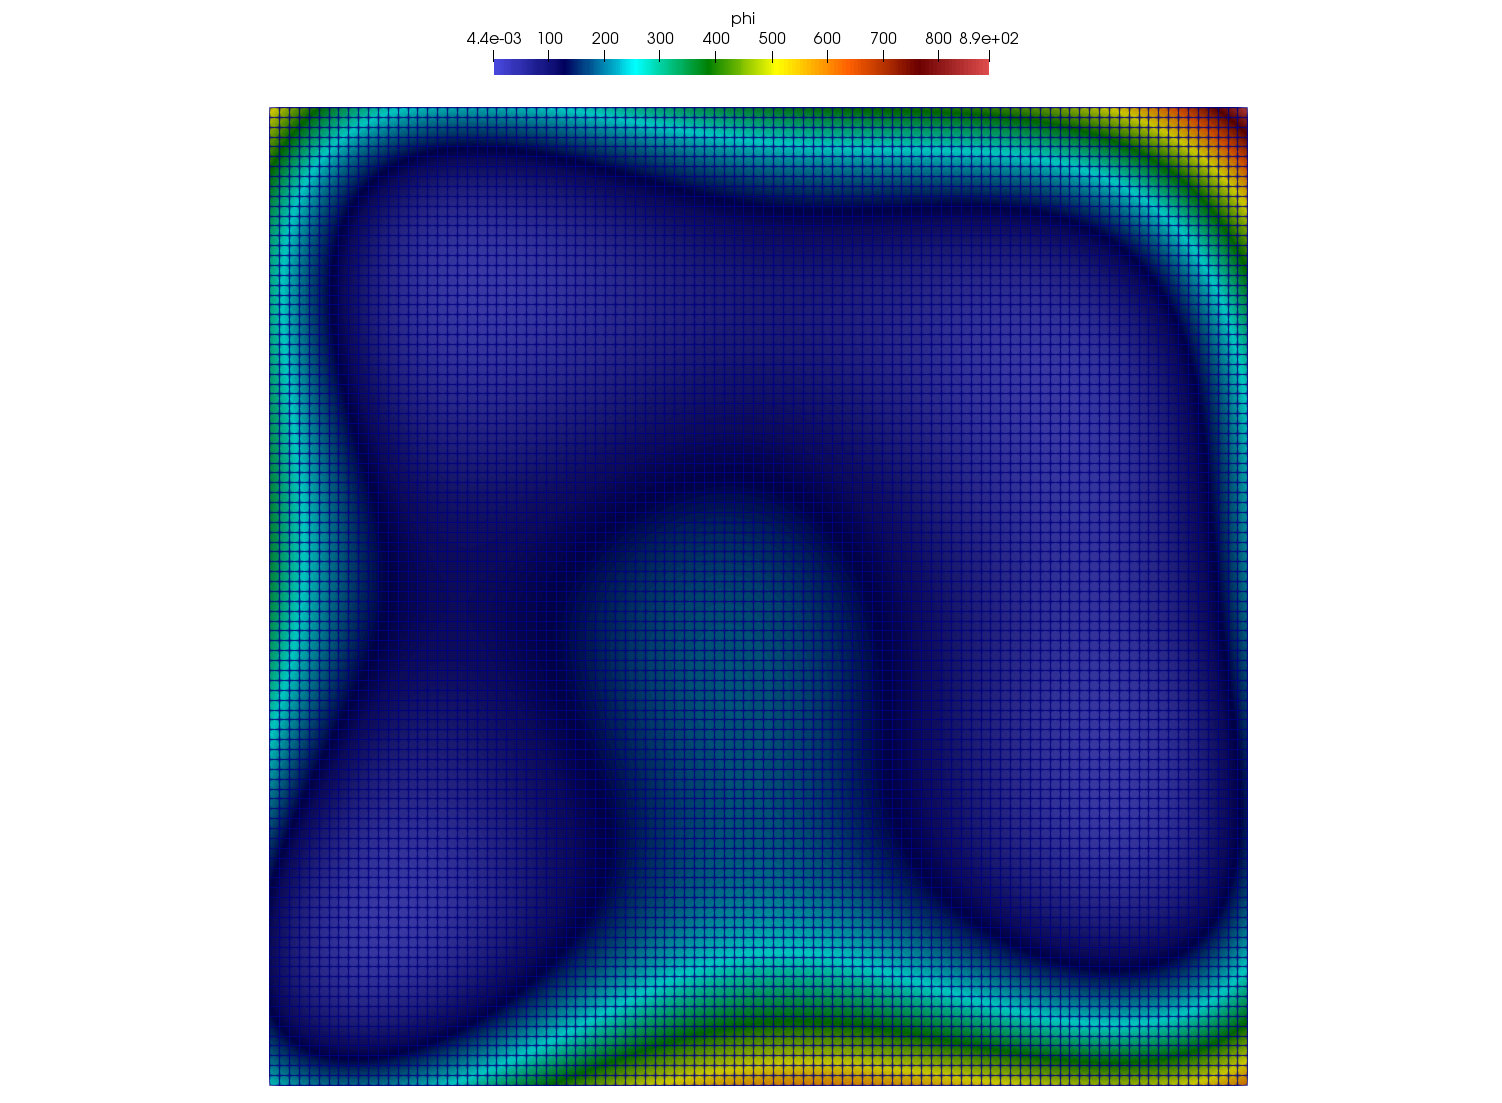
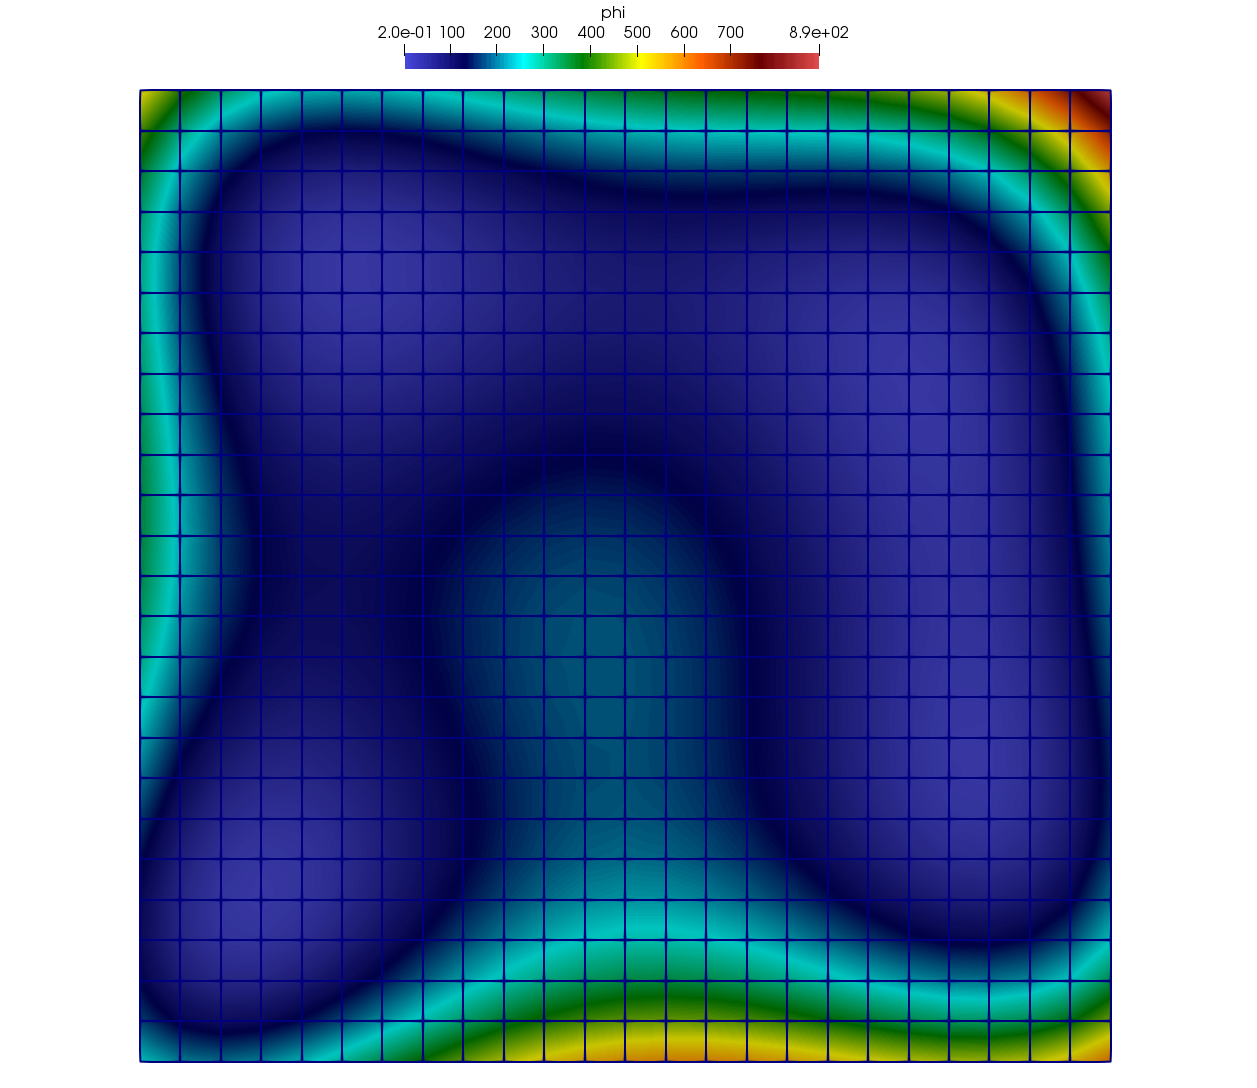
DOC: update getting started section

diff --git a/src/axom/mint/examples/user_guide/mint_getting_started.cpp b/src/axom/mint/examples/user_guide/mint_getting_started.cpp
@@ -63,10 +63,12 @@ int main ( int argc, char** argv )
 
   parse_args( argc, argv );
 
+// sphinx_tutorial_walkthrough_set_memory_start
   // NOTE: use unified memory if we are using CUDA
 #if defined(AXOM_USE_RAJA) && defined(AXOM_USE_CUDA)
   axom::setDefaultAllocator( axom::getAllocator( umpire::resource::Unified ) );
 #endif
+// sphinx_tutorial_walkthrough_set_memory_end
 
 // sphinx_tutorial_walkthrough_construct_mesh_start
 
@@ -182,7 +184,7 @@ void parse_args( int argc, char** argv )
 // sphinx_tutorial_walkthrough_construct_umesh_start
 mint::Mesh* getUniformMesh( )
 {
-  // construct a 100 x 100 grid within a domain defined in [-5.0, 5.0]
+  // construct a N x N grid within a domain defined in [-5.0, 5.0]
   const double lo[]   = { -5.0, -5.0 };
   const double hi[]   = {  5.0,  5.0 };
   mint::Mesh* m = new mint::UniformMesh( lo, hi, Arguments.res, Arguments.res );

diff --git a/src/axom/mint/docs/sphinx/sections/getting_started.rst b/src/axom/mint/docs/sphinx/sections/getting_started.rst
@@ -8,29 +8,61 @@
 Getting Started with Mint
 ---------------------------
 
-This section provides a quick introduction to Mint by presenting a
-complete walk-through of an example Mint application, illustrating some of the
-key concepts and capabilities. The complete :ref:`MintApplicationCodeExample`,
-presented herein, is included in the :ref:`sections/mint/appendix` section and is
-also available in the Axom source code under
-``src/axom/mint/examples/user_guide/mint_getting_started.cpp``.
+This section presents a complete code walk-through of an example Mint
+application, designed to illustrate some of the key concepts and capabilities
+of Mint. The complete :ref:`MintApplicationCodeExample`, is included in the
+:ref:`sections/mint/appendix` section and is also available in the Axom source
+code under ``src/axom/mint/examples/user_guide/mint_getting_started.cpp``.
 
-The example Mint application illustrates:
-
-* Construction of a simple 2D :ref:`UniformMesh`
-* Creation of node-centered and cell-centered :ref:`FieldData` on the mesh
-* Using the :ref:`sections/execution_model` to implement *mesh-agnostic*
-  and *device-agnostic* kernels.
-* Output of the resulting mesh and data in VTK for visualization.
+The example Mint application demonstrates how Mint is used to develop
+kernels that are both *mesh-agnostic* and *device-agnostic*.
 
 .. tip::
+
     Mint's `RAJA`_-based :ref:`sections/execution_model` helps facilitate
     the implementation of various computational kernels that are both
     *mesh-agnostic* and *device-agnostic*. Both kernels discussed in
     this example do not make any assumptions about the underlying mesh
     type or the target execution device, e.g. CPU or GPU. Consequently, the
-    same implementation can operate on any of the supported :ref:`MeshTypes`
-    and run in parallel on all execution devices supported through `RAJA`_.
+    same implementation can operate on both :ref:`StructuredMesh` and
+    :ref:`UnstructuredMesh` types and run sequentially or in parallel on all
+    execution devices supported through `RAJA`_.
+
+Prerequisites
+^^^^^^^^^^^^^^
+
+Understanding the discussion and material presented in this section requires:
+
+* Working knowledge of C++ templates and `Lambda Expression`_ functions.
+* High-level understanding of nested memory hierarchies on heterogeneous
+  architectures and `CUDA Unified Memory`_.
+* Basics of the :ref:`sections/execution_model` (recommended)
+
+.. note::
+
+  Mint does not provide a memory manager. The application must explicitly
+  specify the desired allocation strategy and memory space to use. This is
+  facilitated by using `Umpire`_ for memory management. Specifically, this
+  example uses `CUDA Unified Memory`_ when compiled with `RAJA`_ and CUDA
+  enabled by setting the default `Umpire`_ allocator in the beginning of the
+  program as follows:
+
+  .. literalinclude:: ../../../examples/user_guide/mint_getting_started.cpp
+   :start-after: sphinx_tutorial_walkthrough_set_memory_start
+   :end-before: sphinx_tutorial_walkthrough_set_memory_end
+   :language: C++
+
+Goals
+^^^^^^
+
+Completion of the walk-though of this simple code example should only require a
+few minutes. Upon completion, the user will be familiar with using Mint to:
+
+* Create and evaluate fields on a mesh
+* Use the :ref:`NodeTraversalFunctions` and :ref:`CellTraversalFunctions` of the
+  :ref:`sections/execution_model` to implement kernels to operate on the
+  mesh and associated fields.
+* Plot the mesh and associated fields in VTK for visualization.
 
 .. _step1:
 
@@ -49,18 +81,45 @@ makes use of Axom's Matrix class, which is also included by the following:
 
 .. _step2:
 
-Step 2: Create a UniformMesh
-^^^^^^^^^^^^^^^^^^^^^^^^^^^^
+Step 2: Get a Mesh
+^^^^^^^^^^^^^^^^^^^
 
-Next, a :math:`100 \times 100` :ref:`UniformMesh`, defined on a
-domain given by the interval :math:`\mathcal{I}:[-5.0,5.0] \times [-5.0,5.0]`,
-is constructed by the following:
+The example application is designed to operate on either a :ref:`StructuredMesh`
+or an :ref:`UnstructuredMesh`. The type of mesh to use is specified by a runtime
+option that can be set by the user at the command line. See :ref:`step7` for
+more details.
+
+To make the code work with both :ref:`StructuredMesh` and :ref:`UnstructuredMesh`
+instances the kernels are developed in terms of the :ref:`TheMeshBaseClass`,
+``mint::Mesh``.
+
+The pointer to a ``mint::Mesh`` object is acquired as follows:
 
 .. literalinclude:: ../../../examples/user_guide/mint_getting_started.cpp
    :start-after: sphinx_tutorial_walkthrough_construct_mesh_start
    :end-before: sphinx_tutorial_walkthrough_construct_mesh_end
    :language: C++
    :linenos:
+
+When using a :ref:`UniformMesh`, the mesh is constructed by the following:
+
+.. literalinclude:: ../../../examples/user_guide/mint_getting_started.cpp
+   :start-after: sphinx_tutorial_walkthrough_construct_umesh_start
+   :end-before: sphinx_tutorial_walkthrough_construct_umesh_end
+   :language: C++
+   :linenos:
+
+This creates an :math:`N \times N` :ref:`UniformMesh`, defined on a
+domain given by the interval :math:`\mathcal{I}:[-5.0,5.0] \times [-5.0,5.0]`,
+where :math:`N=25`, unless specified otherwise by the user at the command line.
+
+When an :ref:`UnstructuredMesh` is used, the code will generate the
+:ref:`UniformMesh` internally and triangulate it by subdividing each
+quadrilateral element into four triangles. See the complete
+:ref:`MintApplicationCodeExample` for details.
+
+See the :ref:`sections/tutorial` for more details on how to
+:ref:`createAUniformMesh` or :ref:`createAnUnstructuredMesh`.
 
 .. _step3:
 
@@ -76,8 +135,9 @@ on the mesh object:
    :language: C++
    :linenos:
 
-* The *node-centered* field, ``phi``, stores the result computed in :ref:`step4`
-* The *cell-centered* field, ``xc``, stores the result computed in :ref:`step5`
+* The *node-centered* field, ``phi``, stores the result, computed in :ref:`step4`
+* The *cell-centered* field, ``hc``, stores the nodal average of ``phi``, computed in :ref:`step5`
+* The *cell-centered* field, ``xc``, stores the cell-centers, computed in :ref:`step5`
 
 Note, the template argument to the ``createField()`` method indicates the
 underlying field type, e.g. ``double``, ``int`` , etc. In this case, both
@@ -99,14 +159,17 @@ supplying the third argument in the ``createField()`` method invocation.
     that the number of components of the field defaults to :math:`1` and thereby
     the field is assumed to be a scalar quantity.
 
+See the :ref:`sections/tutorial` for more details on :ref:`workingWithFields`
+on a mesh.
+
 .. _step4:
 
 Step 4: Himmelblau's Function
 ^^^^^^^^^^^^^^^^^^^^^^^^^^^^^
 
-The first kernel employs the ``for_all_nodes()`` traversal function
-of the :ref:`sections/execution_model` to iterate over the constituent mesh
-:ref:`Nodes` and evaluate `Himmelblau's Function`_ (an analytic function):
+The first kernel employs the ``for_all_nodes()`` traversal function of the
+:ref:`sections/execution_model` to iterate over the constituent
+mesh :ref:`Nodes` and evaluate `Himmelblau's Function`_ (an analytic function):
 
 .. literalinclude:: ../../../examples/user_guide/mint_getting_started.cpp
    :start-after: sphinx_tutorial_walkthrough_compute_hf_start
@@ -136,15 +199,21 @@ supplied ``x`` and ``y`` node coordinates. The result is stored in the
 corresponding field array, ``phi``, which is captured by the
 `Lambda Expression`_, at the corresponding node location, ``phi[ nodeIdx ]``.
 
+See the :ref:`sections/tutorial` for more details on using the
+:ref:`NodeTraversalFunctions` of the :ref:`sections/execution_model`.
+
 .. _step5:
 
-Step 5: Cell Centers
-^^^^^^^^^^^^^^^^^^^^
+Step 5: Average to Cell Centers
+^^^^^^^^^^^^^^^^^^^^^^^^^^^^^^^^
 
 The second kernel employs the ``for_all_cells()`` traversal function of the
 :ref:`sections/execution_model` to iterate over the constituent mesh
-:ref:`Cells` and compute the corresponding cell centroid, a 2D *vector*
-quantity, as follows:
+:ref:`Cells` and performs the following:
+
+#. computes the corresponding cell centroid, a 2D *vector* quantity,
+#. averages the node-centered field, ``phi``, computed in :ref:`step4`, at the
+   cell center.
 
 .. literalinclude:: ../../../examples/user_guide/mint_getting_started.cpp
    :start-after: sphinx_tutorial_walkthrough_cell_centers_start
@@ -203,9 +272,9 @@ Within the body of the kernel, the centroid of the cell is calculated by
 averaging the node coordinates. The code loops over the columns of the
 ``coords`` matrix (i.e., the cell nodes) and computes the sum of each
 node coordinate in ``xsum`` and ``ysum`` respectively. Then, the average is
-evaluated by multiplying each coordinate sum with :math:`1/4`. The result is
-stored in the corresponding field array, ``xc``, which is captured by the
-`Lambda Expression`_.
+evaluated by multiplying each coordinate sum with :math:`1/N`, where :math:`N`
+is the number of nodes of a cell. The result is stored in the corresponding
+field array, ``xc``, which is captured by the `Lambda Expression`_.
 
 Since, the cell centroid is a 2D vector quantity, each cell entry has an
 x-component and y-component. Multi-component fields in Mint are stored using a
@@ -215,6 +284,14 @@ components of the field. Consequently, the x-component of the centroid of a cell
 with ID, ``cellIdx`` is stored at ``xc[ cellIIdx * NUM_COMPONENTS  ]`` and the
 y-component is stored at ``xc[ cellIdx * NUM_COMPONENTS + 1 ]``, where
 ``NUM_COMPONENTS=2``.
+
+In addition, the node-centered quantity, ``phi``, computed in :ref:`step4` is
+averaged and stored at the cell centered, by first summing all the nodal
+contributions in ``hsum`` and then multiplying by :math:`1/N`, where :math:`N`
+is the number of nodes of a cell.
+
+See the :ref:`sections/tutorial` for more details on using the
+:ref:`CellTraversalFunctions` of the :ref:`sections/execution_model`.
 
 .. _step6:
 
@@ -231,6 +308,8 @@ and `ParaView`_ as follows:
    :language: C++
    :linenos:
 
+A VTK file corresponding to the `VTK File Format`_ specification for the mesh
+type used will be generated.
 
 .. _step7:
 
@@ -242,7 +321,55 @@ from within the build space directory as follows:
 
 .. code-block:: bash
 
-   > ./example/mint_uniform_mesh_ex
+   > ./examples/mint_getting_started_ex
+
+By default the example will use a :math:`25 \times 25` :ref:`UniformMesh` domain
+defined on the interval :math:`\mathcal{I}:[-5.0,5.0] \times [-5.0,5.0]`.
+The resulting VTK file is stored in the specified file, ``uniform_mesh.vtk``.
+A depiction of the mesh showing a plot of `Himmelblau's Function`_ computed
+over the constituent :ref:`Nodes` of the mesh is illustrated in
+:numref:`figs/intro_mesh`.
+
+.. _figs/intro_mesh:
+.. figure:: ../figures/intro_mesh.png
+   :align: center
+   :alt: Resulting Uniform mesh
+
+   Plot of `Himmelblau's Function`_ computed over the constituent :ref:`Nodes`
+   of the :ref:`UniformMesh`.
+
+
+The user may choose to use an :ref:`UnstructuredMesh` instead by specifying
+the ``--unstructured`` option at the command line as follows:
+
+.. code-block:: bash
+
+   > ./examples/mint_getting_started_ex --unstructured
+
+The code will generate an :ref:`UnstructuredMesh` by triangulating the
+:ref:`UniformMesh` such that each quadrilateral is subdivided into four triangles.
+The resulting unstructured mesh is stored in a VTK file, ``unstructured_mesh.vtk``,
+depicted in :numref:`figs/intro_mesh_unstructured`.
+
+.. _figs/intro_mesh_unstructured:
+.. figure:: ../figures/intro_mesh_unstructured.png
+   :align: center
+   :alt: Resulting Unstructured mesh
+
+   Plot of `Himmelblau's Function`_ computed over the constituent :ref:`Nodes`
+   of the :ref:`UnstructuredMesh`.
+
+By default the resolution of the mesh is set to :math:`25 \times 25`. A user
+may set the desired resolution to use at the command line, using the
+``--resolution [N]`` command line option.
+
+For example, the following indicates that a mesh of resolution
+:math:`100 \times 100` will be used instead when running the example.
+
+.. code-block:: bash
+
+   > ./examples/mint_getting_started_ex --resolution 100
+
 
 .. note::
 
@@ -254,19 +381,6 @@ from within the build space directory as follows:
      with `RAJA`_ and OpenMP enabled.
    * Sequentially on the CPU, otherwise.
 
-
-The resulting VTK file is stored in the specified file, ``uniform_mesh.vtk``.
-A depiction of the mesh showing a plot of `Himmelblau's Function`_ computed
-over the constituent :ref:`Nodes` of the mesh is illustrated in
-:numref:`figs/intro_mesh`.
-
-.. _figs/intro_mesh:
-.. figure:: ../figures/intro_mesh.png
-   :align: center
-   :alt: Resulting Uniform mesh
-
-   Plot of `Himmelblau's Function`_ computed over the constituent mesh
-   :ref:`Nodes`.
 
 .. #############################################################################
 ..  CITATIONS

diff --git a/src/axom/mint/docs/sphinx/sections/architecture.rst b/src/axom/mint/docs/sphinx/sections/architecture.rst
@@ -186,13 +186,6 @@ store the *origin* and *spacing* of  the :ref:`UniformMesh` and provides
 functionality for evaluating the spatial coordinates of a node given its
 corresponding IJK lattice coordinates.
 
-The following code snippet provides a simple example illustrating how to
-construct and operate on a 2-D :ref:`UniformMesh`.
-
-.. literalinclude:: ../../../examples/mint_uniform_mesh.cpp
-   :language: C++
-   :linenos:
-
 Similarly, support for the :ref:`RectilinearMesh` is implemented in
 ``mint::RectilinearMesh``. The constituent :ref:`Geometry` representation of
 the :ref:`RectilinearMesh` is *semi-implicit*. The spatial coordinates
@@ -203,25 +196,11 @@ axis. The ``mint::RectilinearMesh`` consists of seperate arrays to
 store the coordinates along each axis for the *semi-implicit* :ref:`Geometry`
 representation of the :ref:`RectilinearMesh`.
 
-The following code snippet provides a simple example illustrating how to
-construct and operate on a 2-D :ref:`RectilinearMesh`.
-
-.. literalinclude:: ../../../examples/mint_rectilinear_mesh.cpp
-   :language: C++
-   :linenos:
-
 Support for the :ref:`CurvilinearMesh` is implemented by the
 ``mint::CurvilinearMesh`` class. The :ref:`CurvilinearMesh` requires *explicit*
 representation of its constituent :ref:`Geometry`. The ``mint::CurvilinearMesh``
 makes use of the ``mint::MeshCoordinates`` class to explicitly represent the
 spatial coordinates associated with the constituent :ref:`Nodes` of the mesh.
-
-The following code snippet provides a simple example illustrating how to
-construct and operate on a 2-D :ref:`CurvilinearMesh`.
-
-.. literalinclude:: ../../../examples/mint_curvilinear_mesh.cpp
-   :language: C++
-   :linenos:
 
 Unstructured Mesh
 """"""""""""""""""

diff --git a/src/axom/mint/docs/sphinx/sections/citations.rst b/src/axom/mint/docs/sphinx/sections/citations.rst
@@ -21,3 +21,4 @@
 .. _ParaView: https://www.paraview.org/
 .. _Himmelblau's Function: https://en.wikipedia.org/wiki/Himmelblau%27s_function
 .. _Lambda Expression: https://www.cprogramming.com/c++11/c++11-lambda-closures.html
+.. _CUDA Unified Memory: https://devblogs.nvidia.com/unified-memory-cuda-beginners/
